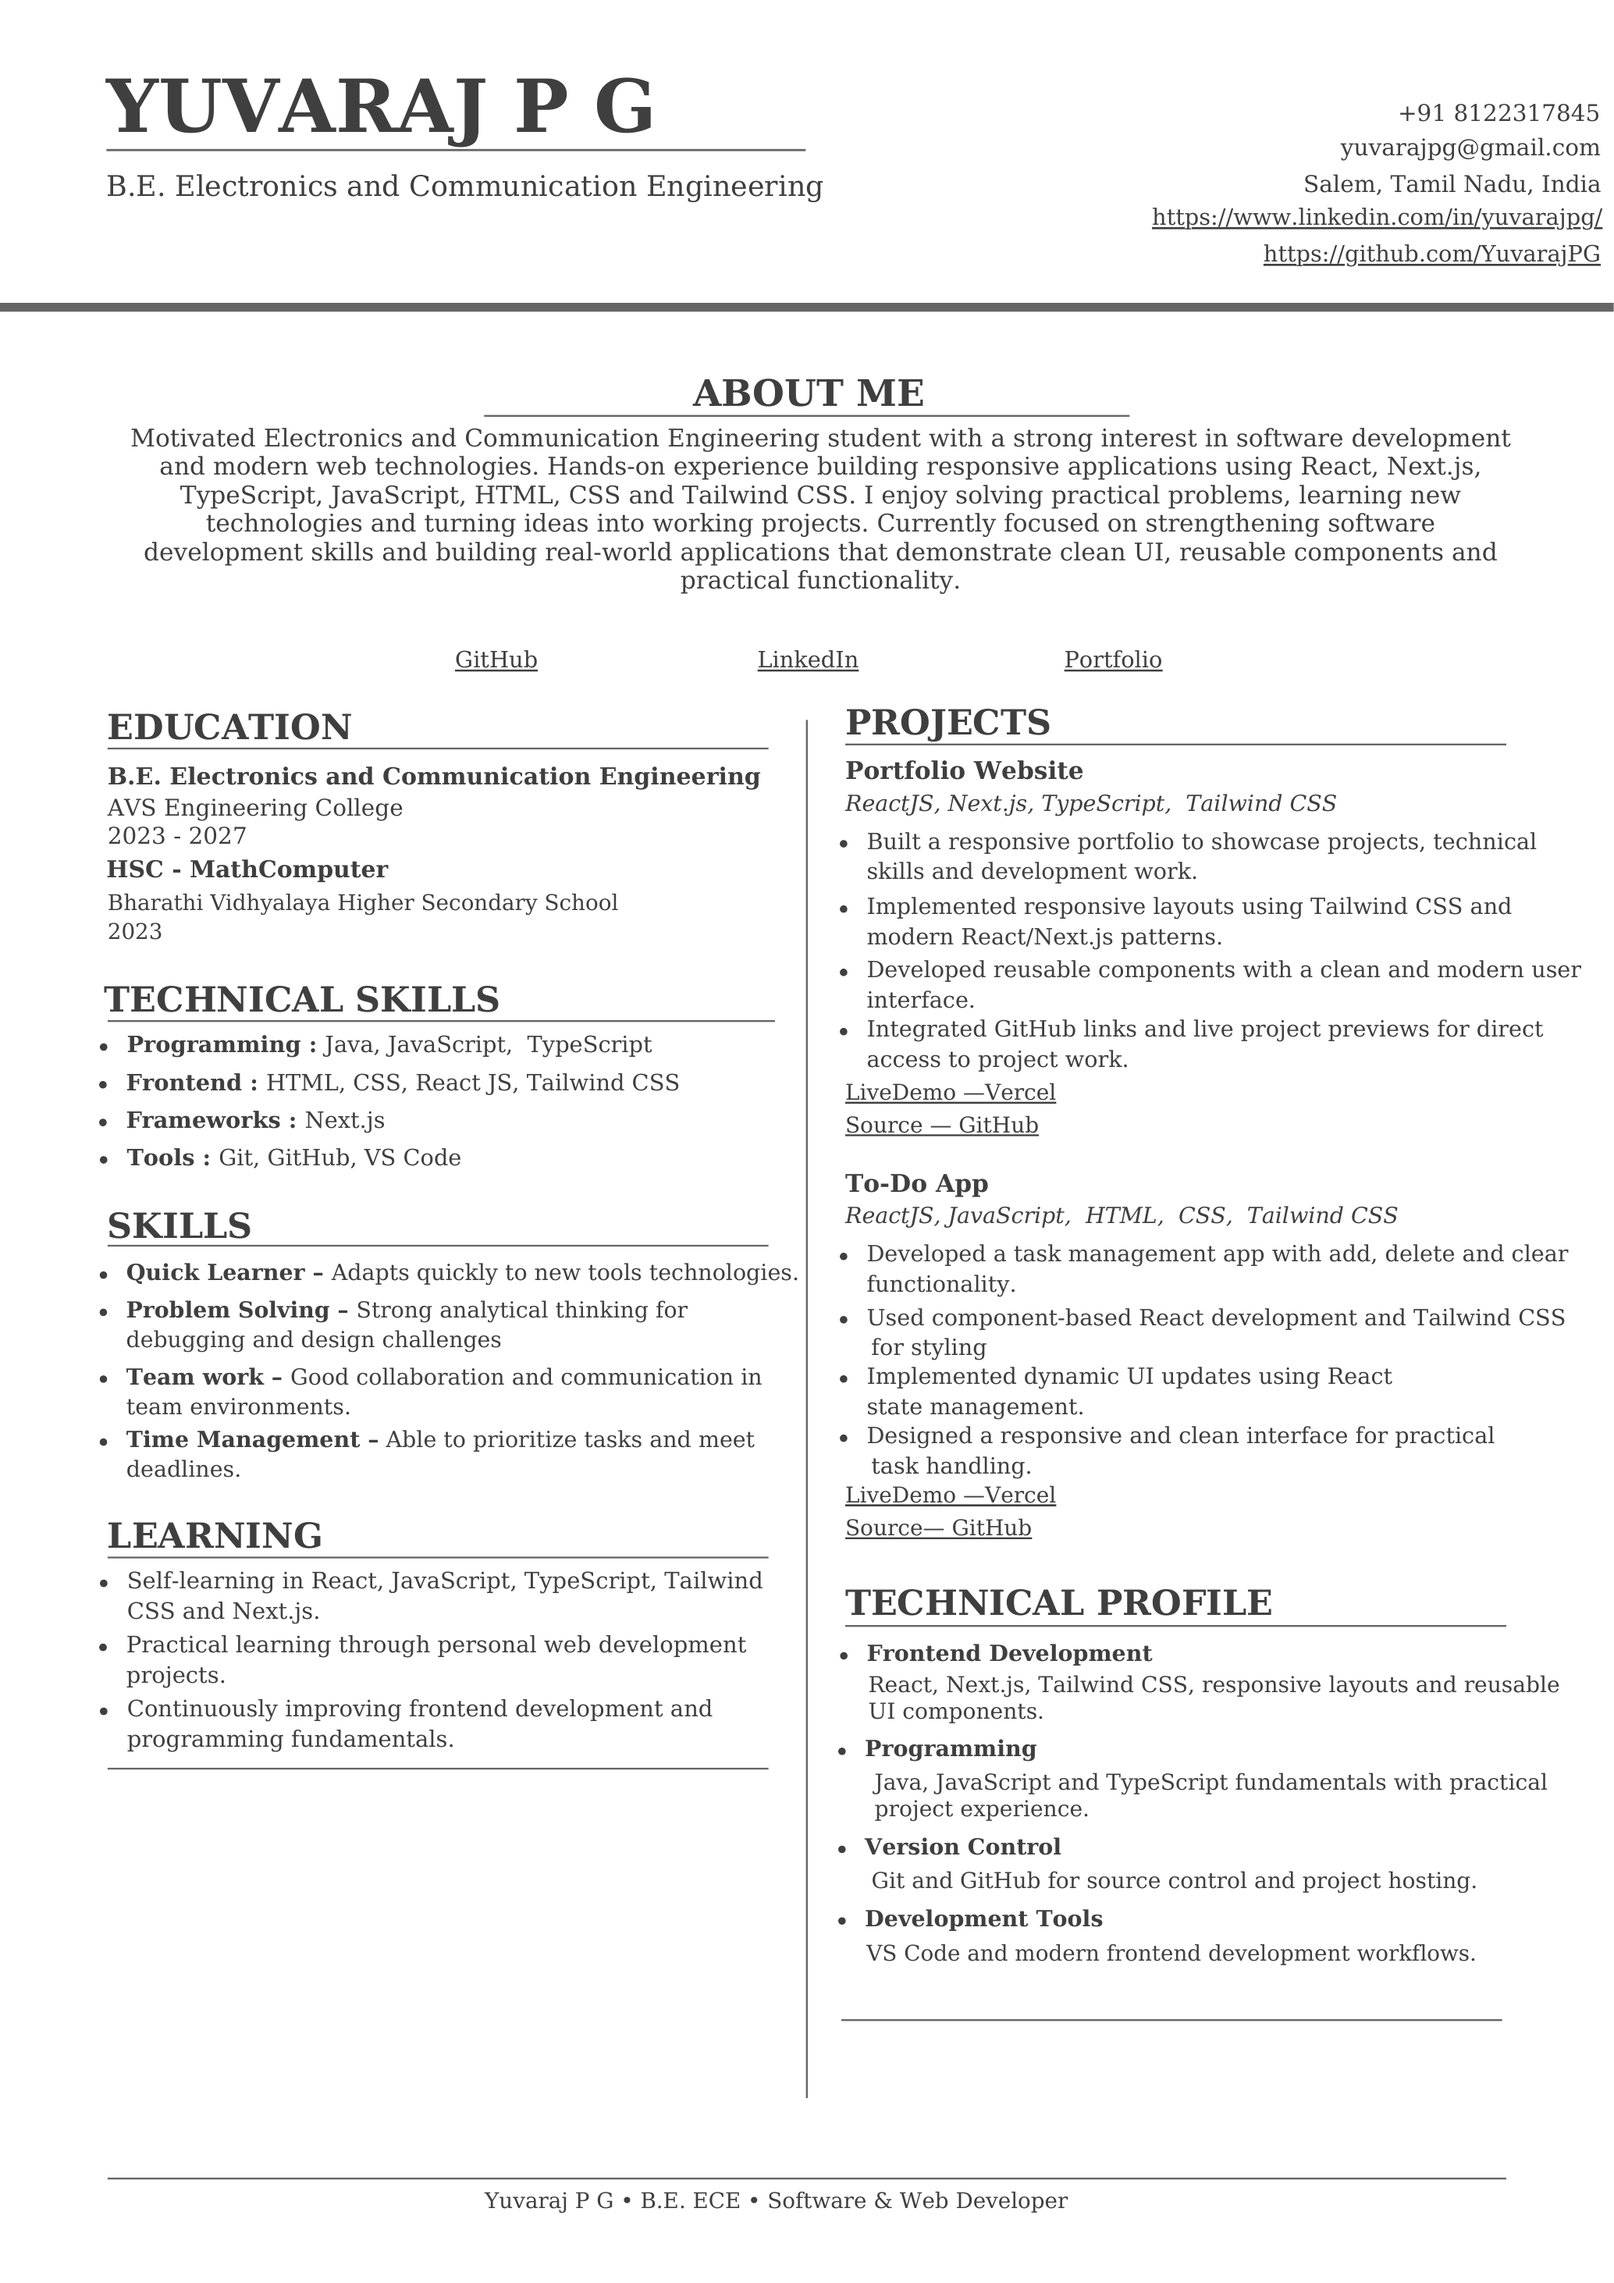
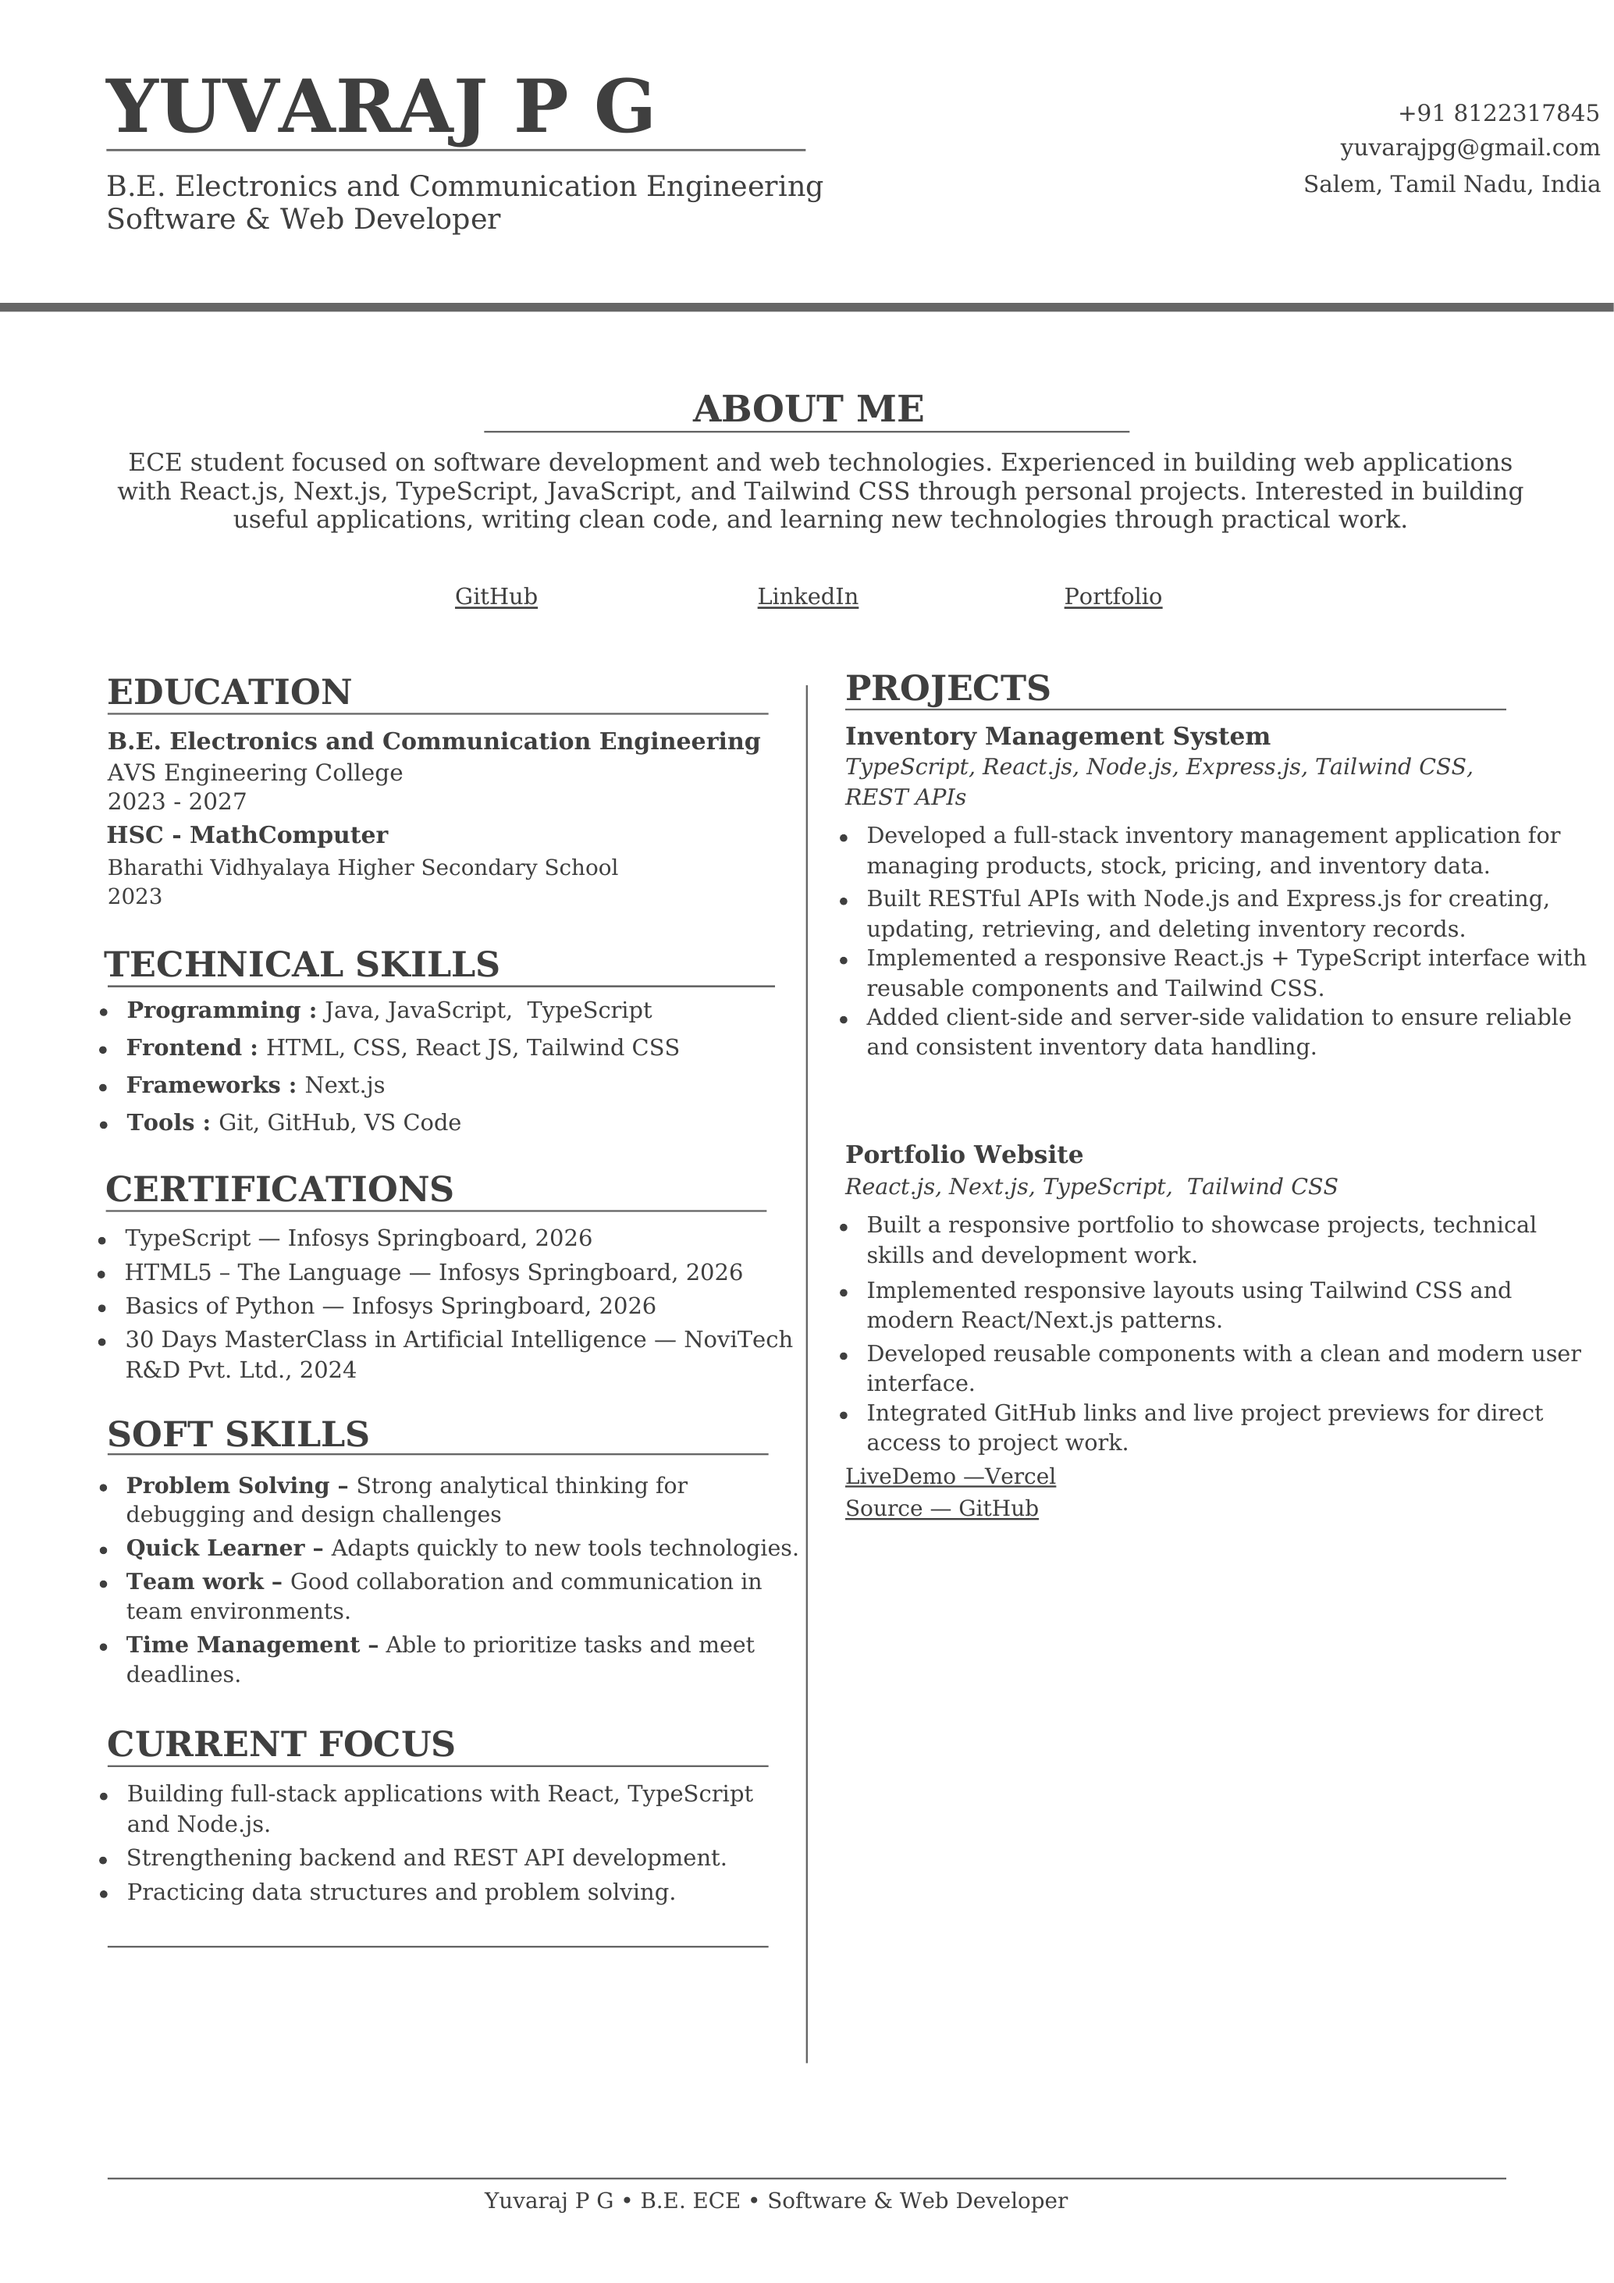
resmume update

Changed region(s): [[0.0619, 0.1556, 0.9903, 0.8711], [0.7118, 0.0933, 0.9903, 0.1244], [0.2785, 0.0933, 0.3095, 0.1244]]

diff --git a/components/sections/ResumeSection.tsx b/components/sections/ResumeSection.tsx
@@ -291,8 +291,8 @@ export const ResumeSection: React.FC<ResumeSectionProps> = ({ onBackToPortfolio 
                   <Image
                     src="/resume-preview-1.png"
                     alt={`${DEVELOPER_INFO.name} Resume`}
-                    width={1700}
-                    height={2400}
+                    width={2068}
+                    height={2925}
                     priority
                     className="w-full h-auto block select-none"
                   />
